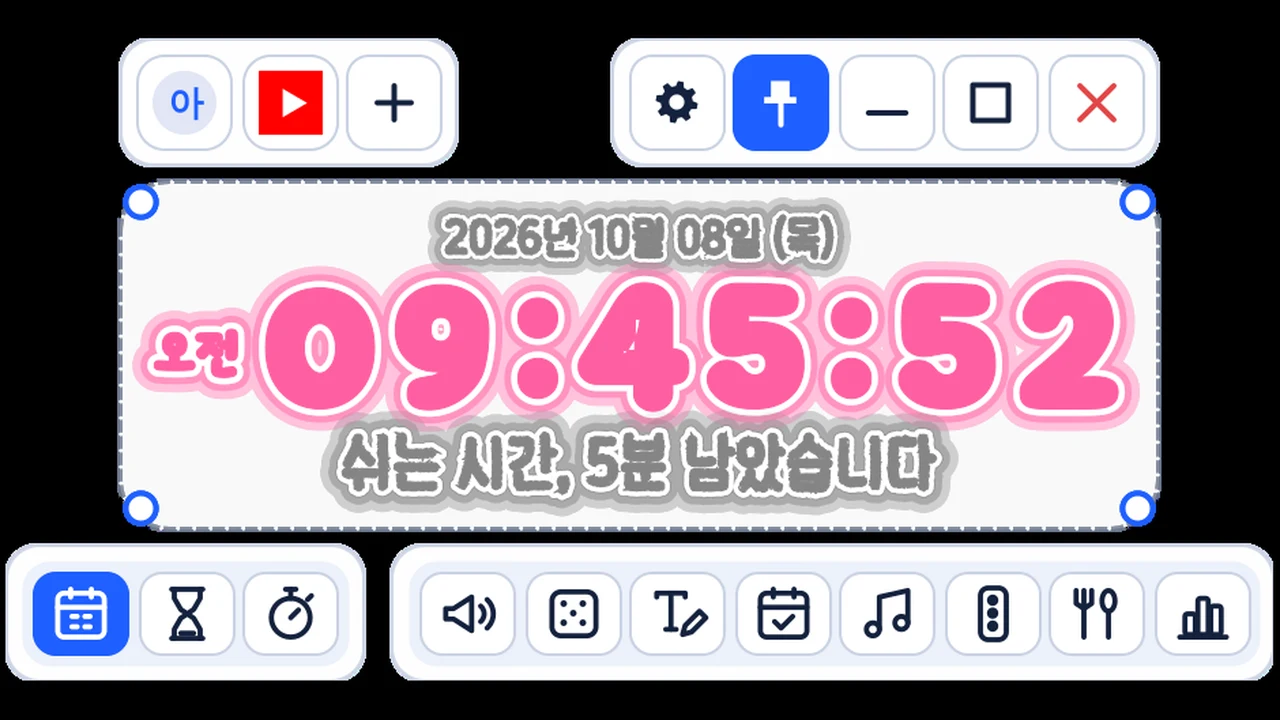
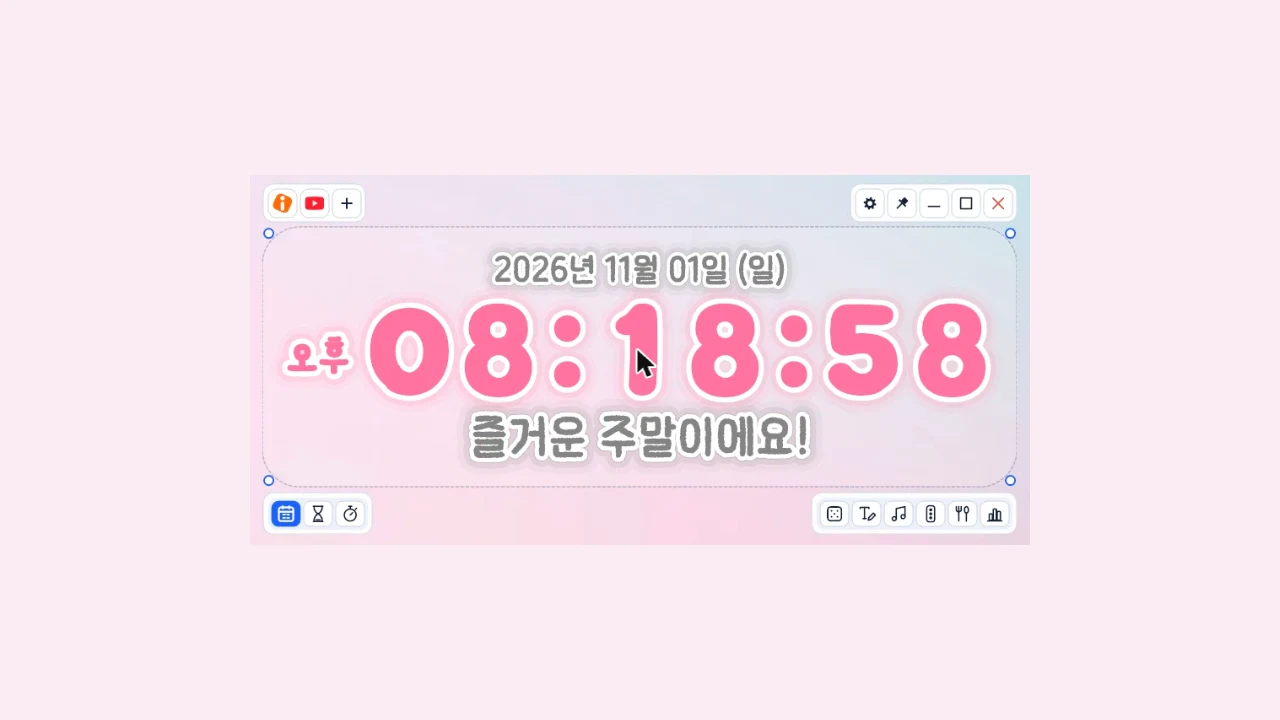
RamClock 화면을 학교 컴퓨터 실제 화면으로(이름 모자이크)
Claude-Session: https://claude.ai/code/session_01GAFtkmkAShqGxSHJr2soeh

diff --git a/index.html b/index.html
@@ -1157,7 +1157,7 @@ const ARCHIVE={
     {t:"피자로 배우는 삼권분립",d:"피자 나누기로 권력을 나누는 이유를 알아보는 사회 수업 앱",tag:"웹앱",y:"2026",img:"apps/pizza.webp?v=3",url:"https://dpfkadpfka.github.io/pizza-samgwon/"},
     {t:"글자 조합 놀이터",d:"친구들이 모은 낱말을 글자로 쪼개 새 낱말 만들기",tag:"웹앱",y:"2026",img:"apps/jamo.webp",url:"https://dpfkadpfka.github.io/jamo-play/"},
     {t:"자리 바꾸기 레이스",d:"태블릿을 연타해 동물이 도착한 순서대로 자리 고르기",tag:"웹앱",y:"2026",img:"apps/seatrace.webp?v=3",url:"https://dpfkadpfka.github.io/yeram-ai-video/seat-race/"},
-    {t:"RamClock",d:"시간표·타이머·뽑기·주간학습안내를 한 화면에 띄우는 교실 시계 위젯",tag:"윈도우 앱",y:"2026",img:"apps/ramclock.webp?v=2",url:"https://github.com/dpfkadpfka/RamClock/releases/latest"},
+    {t:"RamClock",d:"시간표·타이머·뽑기·주간학습안내를 한 화면에 띄우는 교실 시계 위젯",tag:"윈도우 앱",y:"2026",img:"apps/ramclock.webp?v=3",url:"https://github.com/dpfkadpfka/RamClock/releases/latest"},
     {t:"RamSpirit",d:"ChatGPT·Gemini·Grok·Claude를 한 창에 띄우고 질문을 한 번에 보내는 프로그램",tag:"윈도우 앱",y:"2026",img:"apps/ramspirit.webp?v=2",url:"https://github.com/dpfkadpfka/ramspirit/releases/latest"},
     {t:"Ram Calendar",d:"구글 캘린더와 실시간으로 이어지는 바탕화면 달력",tag:"윈도우 앱",y:"2026",img:"apps/calendar.webp?v=2",url:"https://github.com/dpfkadpfka/yeram-calendar/releases/latest"},
   ],
@@ -1579,7 +1579,7 @@ var WINAPP={
  'RamClock':{lead:'교실 컴퓨터 바탕화면에 띄워 두는 시계 위젯이에요. 수업에 필요한 것을 한 화면에 모았어요.',
   feat:['시간표·주간학습안내 PDF를 올리면 그 주 시간표로 바뀜','타이머·스톱워치·학생 뽑기·투표','선생님 안내 문구와 자주 쓰는 사이트 바로가기','새 버전은 자동으로 받아짐'],
   how:['내려받기를 눌러 RamClock.exe를 받아요.','원하는 폴더(바탕화면 등)에 두고 실행해요. 설치는 필요 없어요.','“Windows의 PC 보호”가 뜨면 [추가 정보 → 실행]을 눌러요.'],
-  dl:'https://github.com/dpfkadpfka/RamClock/releases/latest/download/RamClock.exe', imgs:['apps/sc_ramclock_1.webp?v=2','apps/sc_ramclock_2.webp?v=2','apps/sc_ramclock_3.webp?v=2','apps/sc_ramclock_4.webp?v=2'], logo:'apps/logo_ramclock.webp', guide:'apps/guide-ramclock.pdf'},
+  dl:'https://github.com/dpfkadpfka/RamClock/releases/latest/download/RamClock.exe', imgs:['apps/sc_ramclock_1.webp?v=3','apps/sc_ramclock_2.webp?v=3','apps/sc_ramclock_3.webp?v=3'], logo:'apps/logo_ramclock.webp', guide:'apps/guide-ramclock.pdf'},
  'RamSpirit':{lead:'ChatGPT·Gemini·Grok·Claude 같은 AI와 다른 프로그램을 한 창에 나란히 띄우고, 질문 하나를 모두에게 한 번에 보내는 프로그램이에요.',
   feat:['2·4·6·8칸, 칸마다 AI·웹사이트·설치된 프로그램 선택','아래 입력창에서 모두에게 한 번에 보내기','칸별·전체 새 대화, 크게 보기, 끌어서 자리 바꾸기','윈도우 10·11용 · 무료'],
   how:['내려받기를 눌러 RamSpirit.exe를 받아요.','더블클릭하면 자동으로 설치되고 바탕화면에 아이콘이 생겨요.','처음 설정 창에서 칸 수와 칸마다 열 앱을 고르면 끝이에요.'],
